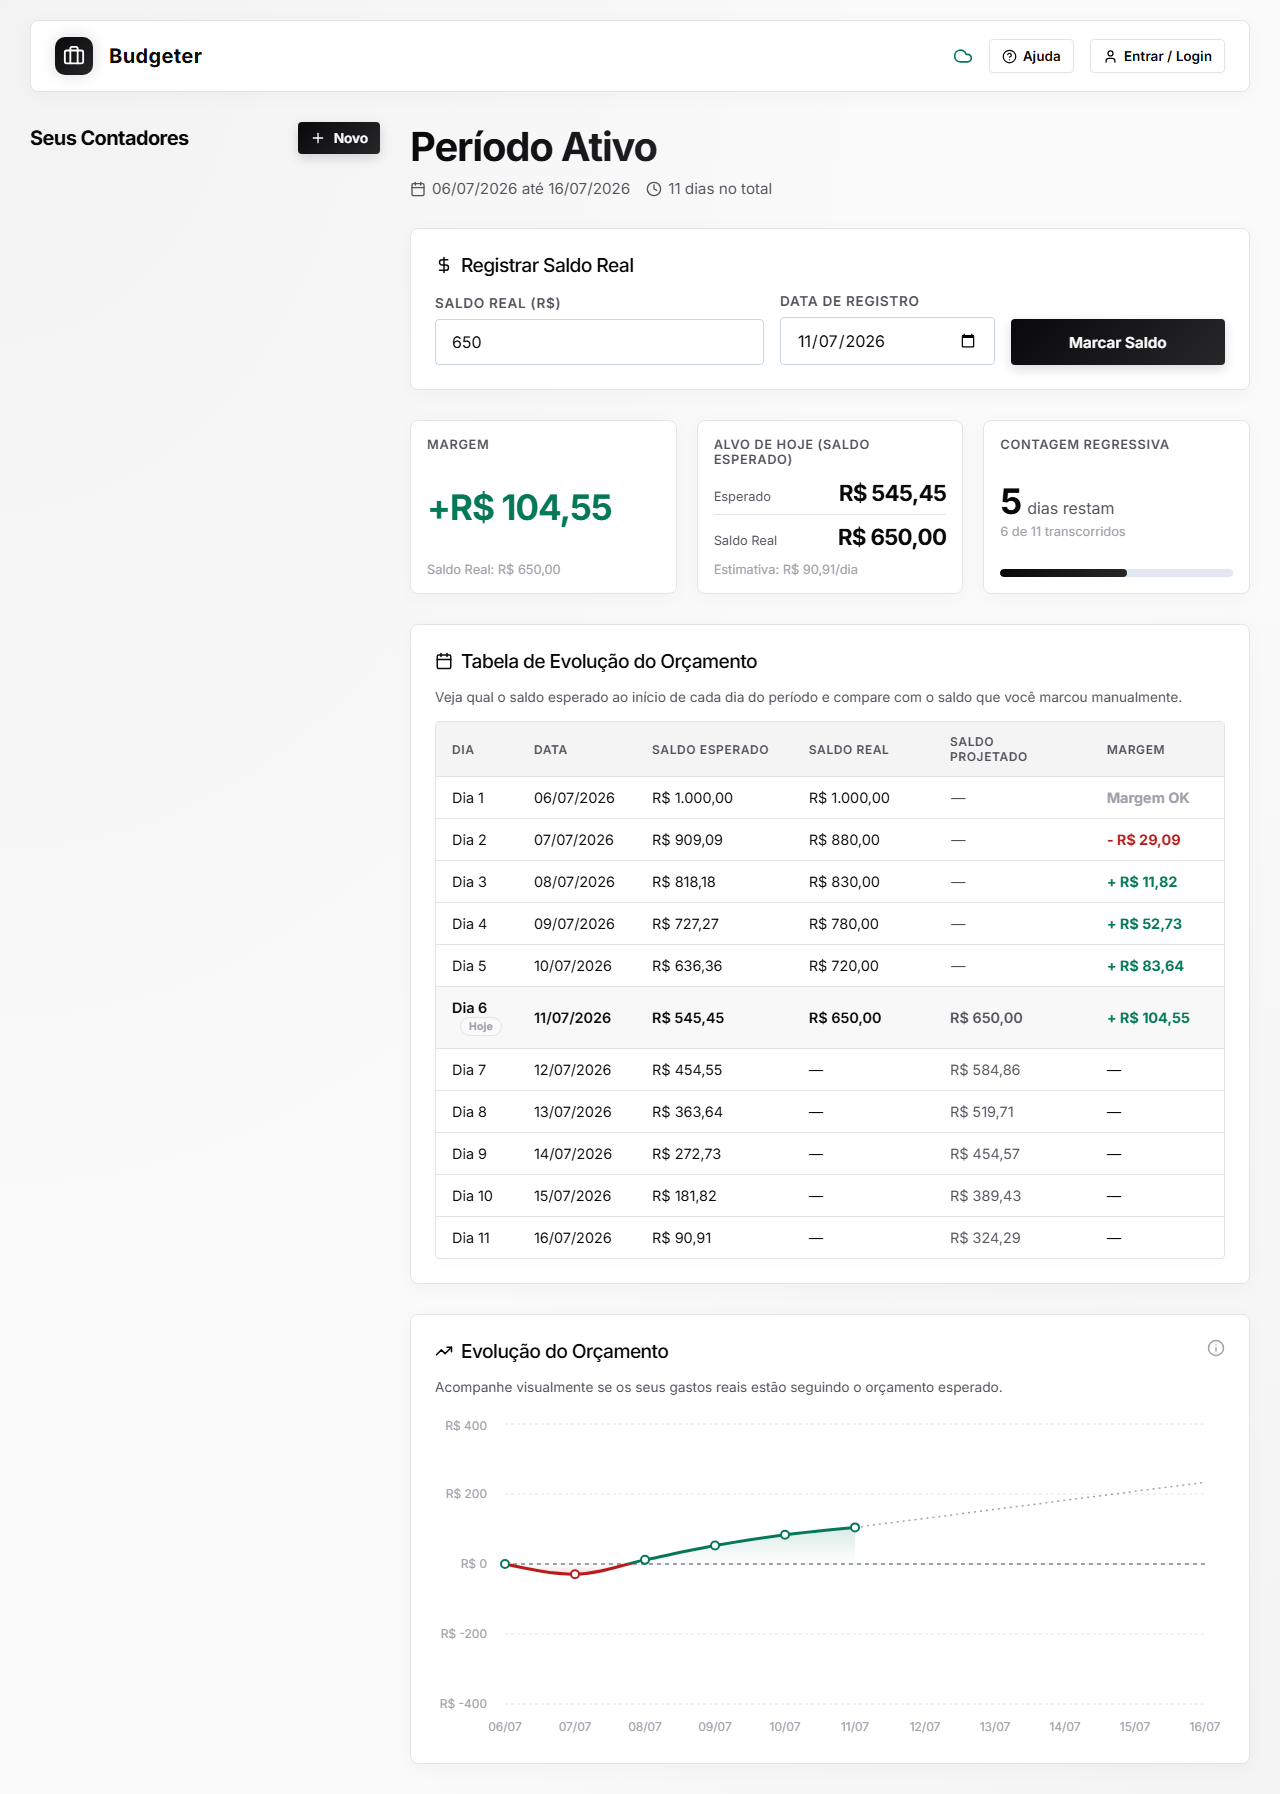
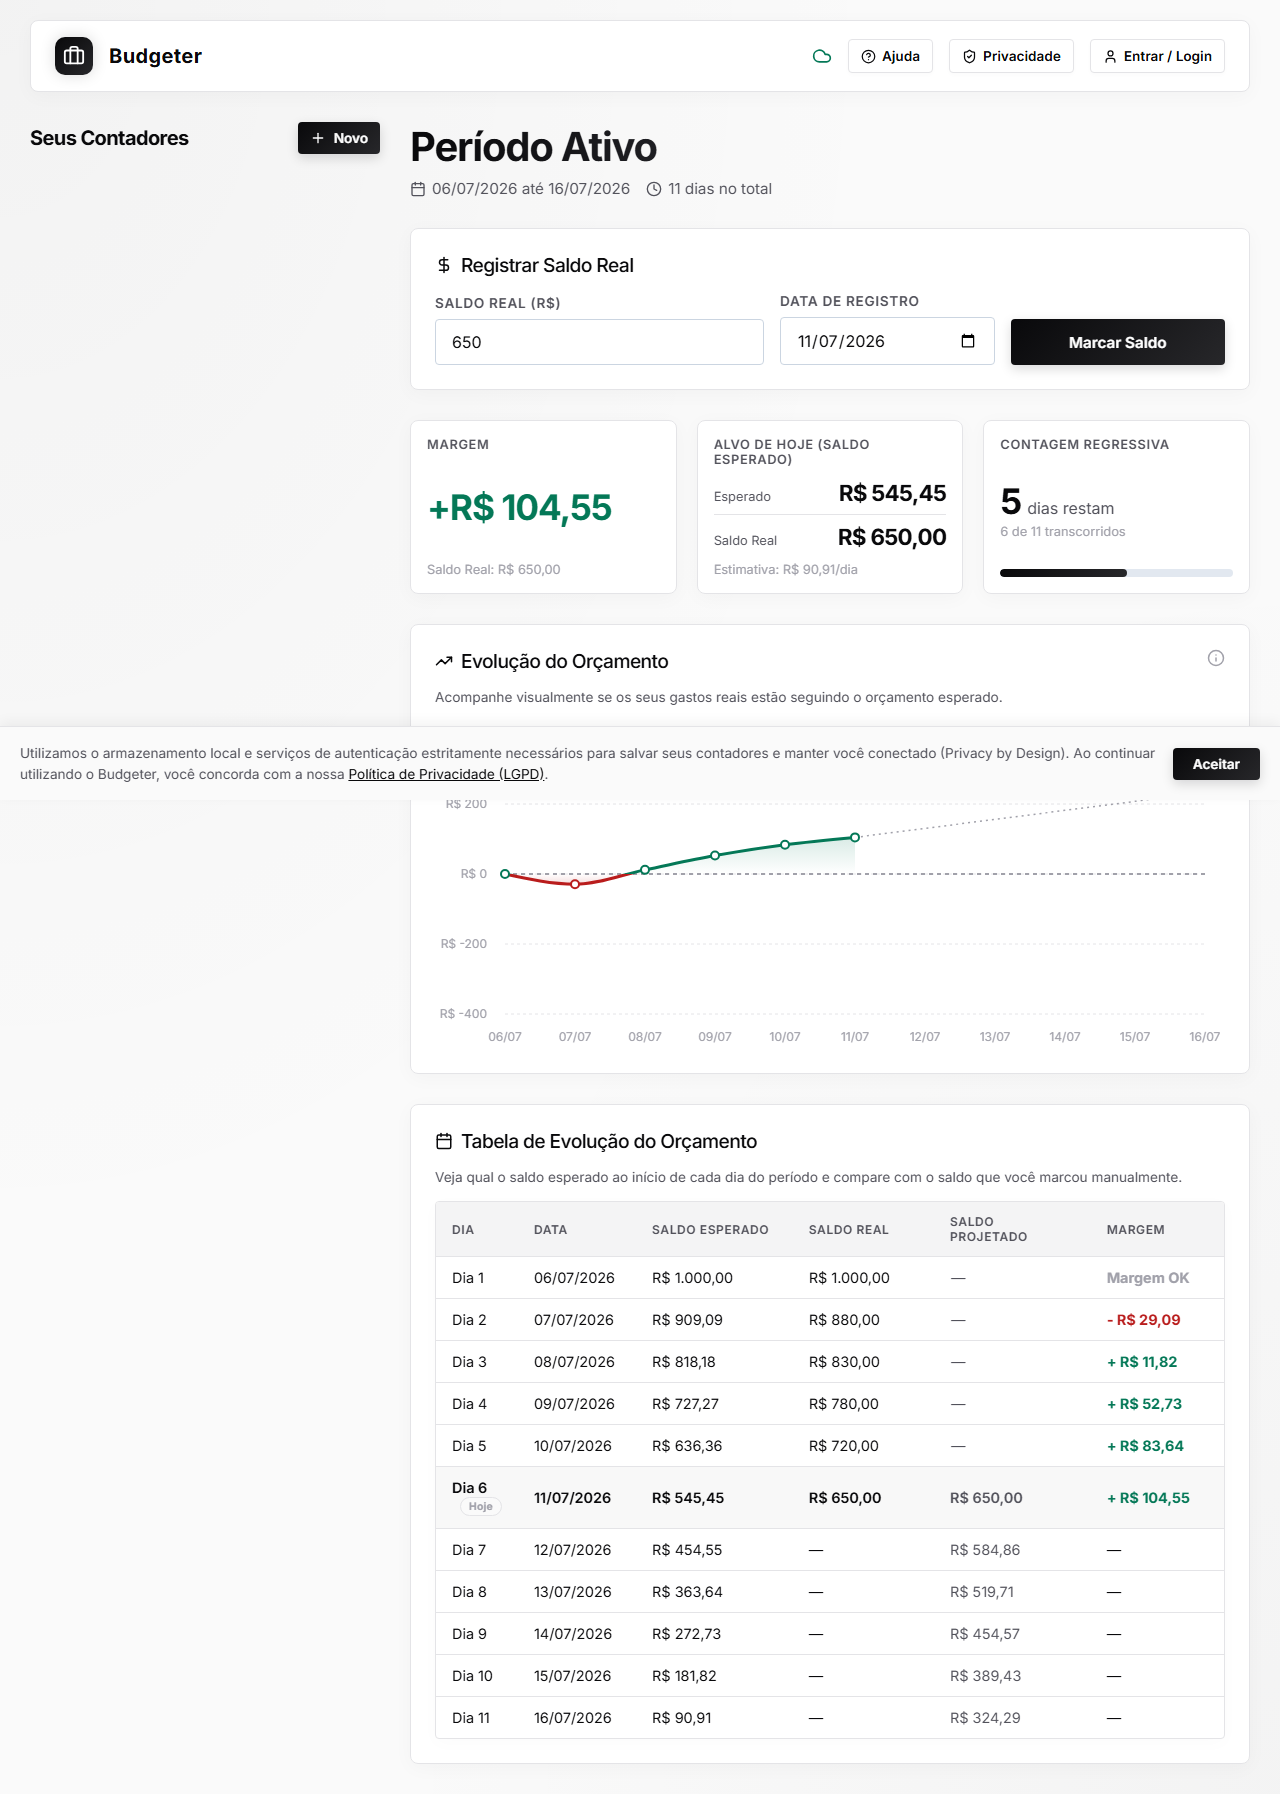
feat: move chart before table in detailed period view

diff --git a/src/components/PeriodDetail.tsx b/src/components/PeriodDetail.tsx
@@ -533,108 +533,8 @@ export const PeriodDetail: React.FC<PeriodDetailProps> = ({
 
 
 
-      {/* SECTION 5: Table of Daily Projections (New Feature) */}
-      <div className="glass animate-in delay-300" style={{ padding: '24px' }}>
-        <h3 style={{ fontSize: '1.2rem', marginBottom: '16px', display: 'flex', alignItems: 'center', gap: '8px' }}>
-          <Calendar size={18} style={{ color: 'var(--color-primary)' }} /> Tabela de Evolução do Orçamento
-        </h3>
-        <p style={{ fontSize: '0.85rem', color: 'var(--text-secondary)', marginBottom: '16px' }}>
-          Veja qual o saldo esperado ao início de cada dia do período e compare com o saldo que você marcou manualmente.
-        </p>
-        
-        <div className="table-container">
-          <table className="budget-table">
-            <thead>
-              <tr>
-                <th style={{ width: '10%' }}>Dia</th>
-                <th style={{ width: '15%' }}>Data</th>
-                <th style={{ width: '20%' }}>Saldo Esperado</th>
-                <th style={{ width: '18%' }}>Saldo Real</th>
-                <th style={{ width: '20%' }}>Saldo Projetado</th>
-                <th style={{ width: '17%' }}>Margem</th>
-              </tr>
-            </thead>
-            <tbody>
-              {(() => {
-                const totalDays = metrics.totalDays;
-                const dates = [];
-                const start = parseLocalDate(period.startDate);
-                for (let i = 0; i < totalDays; i++) {
-                  const nextDate = new Date(start.getFullYear(), start.getMonth(), start.getDate() + i);
-                  dates.push(getLocalDateString(nextDate));
-                }
-                
-                const todayStr = getLocalDateString();
-
-                return dates.map((dateStr, index) => {
-                  const expectedBalance = period.initialBudget - index * metrics.dailyBudget;
-                  const recordedBalanceForDay = period.balanceHistory?.[dateStr];
-                  const hasRecord = recordedBalanceForDay !== undefined;
-                  const isToday = todayStr === dateStr;
-                  
-                  let projectedBalance = null;
-                  if (canProject && lastRecordedBalance !== null && index >= lastRecordedDayIndex) {
-                    projectedBalance = lastRecordedBalance + m * (index - lastRecordedDayIndex);
-                  }
-
-                  let diffText = '—';
-                  let diffColor = 'inherit';
-                  let diffWeight = 'normal';
-
-                  if (hasRecord) {
-                    const diff = recordedBalanceForDay - expectedBalance;
-                    const diffAbs = Math.abs(diff);
-                    if (diff > 0.01) {
-                      diffText = `+ ${formatCurrency(diffAbs)}`;
-                      diffColor = 'var(--color-above)';
-                      diffWeight = '700';
-                    } else if (diff < -0.01) {
-                      diffText = `- ${formatCurrency(diffAbs)}`;
-                      diffColor = 'var(--color-below)';
-                      diffWeight = '700';
-                    } else {
-                      diffText = 'Margem OK';
-                      diffColor = 'var(--color-neutral)';
-                      diffWeight = '700';
-                    }
-                  }
-
-                  return (
-                    <tr key={dateStr} className={isToday ? 'today-row' : ''}>
-                      <td style={{ color: isToday ? 'var(--color-primary)' : 'inherit' }}>
-                        Dia {index + 1}
-                        {isToday && (
-                          <span className="badge badge-neutral" style={{ marginLeft: '8px', padding: '2px 8px', fontSize: '0.65rem', textTransform: 'none' }}>
-                            Hoje
-                          </span>
-                        )}
-                      </td>
-                      <td>{formatDate(dateStr)}</td>
-                      <td>{formatCurrency(expectedBalance)}</td>
-                      <td>
-                        {hasRecord
-                          ? formatCurrency(recordedBalanceForDay!) 
-                          : '—'}
-                      </td>
-                      <td style={{ color: 'var(--text-secondary)', fontStyle: projectedBalance !== null ? 'normal' : 'italic' }}>
-                        {projectedBalance !== null
-                          ? formatCurrency(projectedBalance)
-                          : '—'}
-                      </td>
-                      <td style={{ color: diffColor, fontWeight: diffWeight as any }}>
-                        {diffText}
-                      </td>
-                    </tr>
-                  );
-                });
-              })()}
-            </tbody>
-          </table>
-        </div>
-      </div>
-
       {/* SECTION 6: Chart (New Feature) */}
-      <div className="glass animate-in delay-400" style={{ padding: isMobile ? '16px 12px' : '24px' }}>
+      <div className="glass animate-in delay-300" style={{ padding: isMobile ? '16px 12px' : '24px' }}>
         <div style={{ display: 'flex', justifyContent: 'space-between', alignItems: 'flex-start' }}>
           <div>
             <h3 style={{ fontSize: '1.2rem', marginBottom: '16px', display: 'flex', alignItems: 'center', gap: '8px' }}>
@@ -790,6 +690,106 @@ export const PeriodDetail: React.FC<PeriodDetailProps> = ({
               />
             </ComposedChart>
           </ResponsiveContainer>
+        </div>
+      </div>
+
+      {/* SECTION 5: Table of Daily Projections (New Feature) */}
+      <div className="glass animate-in delay-400" style={{ padding: '24px' }}>
+        <h3 style={{ fontSize: '1.2rem', marginBottom: '16px', display: 'flex', alignItems: 'center', gap: '8px' }}>
+          <Calendar size={18} style={{ color: 'var(--color-primary)' }} /> Tabela de Evolução do Orçamento
+        </h3>
+        <p style={{ fontSize: '0.85rem', color: 'var(--text-secondary)', marginBottom: '16px' }}>
+          Veja qual o saldo esperado ao início de cada dia do período e compare com o saldo que você marcou manualmente.
+        </p>
+        
+        <div className="table-container">
+          <table className="budget-table">
+            <thead>
+              <tr>
+                <th style={{ width: '10%' }}>Dia</th>
+                <th style={{ width: '15%' }}>Data</th>
+                <th style={{ width: '20%' }}>Saldo Esperado</th>
+                <th style={{ width: '18%' }}>Saldo Real</th>
+                <th style={{ width: '20%' }}>Saldo Projetado</th>
+                <th style={{ width: '17%' }}>Margem</th>
+              </tr>
+            </thead>
+            <tbody>
+              {(() => {
+                const totalDays = metrics.totalDays;
+                const dates = [];
+                const start = parseLocalDate(period.startDate);
+                for (let i = 0; i < totalDays; i++) {
+                  const nextDate = new Date(start.getFullYear(), start.getMonth(), start.getDate() + i);
+                  dates.push(getLocalDateString(nextDate));
+                }
+                
+                const todayStr = getLocalDateString();
+
+                return dates.map((dateStr, index) => {
+                  const expectedBalance = period.initialBudget - index * metrics.dailyBudget;
+                  const recordedBalanceForDay = period.balanceHistory?.[dateStr];
+                  const hasRecord = recordedBalanceForDay !== undefined;
+                  const isToday = todayStr === dateStr;
+                  
+                  let projectedBalance = null;
+                  if (canProject && lastRecordedBalance !== null && index >= lastRecordedDayIndex) {
+                    projectedBalance = lastRecordedBalance + m * (index - lastRecordedDayIndex);
+                  }
+
+                  let diffText = '—';
+                  let diffColor = 'inherit';
+                  let diffWeight = 'normal';
+
+                  if (hasRecord) {
+                    const diff = recordedBalanceForDay - expectedBalance;
+                    const diffAbs = Math.abs(diff);
+                    if (diff > 0.01) {
+                      diffText = `+ ${formatCurrency(diffAbs)}`;
+                      diffColor = 'var(--color-above)';
+                      diffWeight = '700';
+                    } else if (diff < -0.01) {
+                      diffText = `- ${formatCurrency(diffAbs)}`;
+                      diffColor = 'var(--color-below)';
+                      diffWeight = '700';
+                    } else {
+                      diffText = 'Margem OK';
+                      diffColor = 'var(--color-neutral)';
+                      diffWeight = '700';
+                    }
+                  }
+
+                  return (
+                    <tr key={dateStr} className={isToday ? 'today-row' : ''}>
+                      <td style={{ color: isToday ? 'var(--color-primary)' : 'inherit' }}>
+                        Dia {index + 1}
+                        {isToday && (
+                          <span className="badge badge-neutral" style={{ marginLeft: '8px', padding: '2px 8px', fontSize: '0.65rem', textTransform: 'none' }}>
+                            Hoje
+                          </span>
+                        )}
+                      </td>
+                      <td>{formatDate(dateStr)}</td>
+                      <td>{formatCurrency(expectedBalance)}</td>
+                      <td>
+                        {hasRecord
+                          ? formatCurrency(recordedBalanceForDay!) 
+                          : '—'}
+                      </td>
+                      <td style={{ color: 'var(--text-secondary)', fontStyle: projectedBalance !== null ? 'normal' : 'italic' }}>
+                        {projectedBalance !== null
+                          ? formatCurrency(projectedBalance)
+                          : '—'}
+                      </td>
+                      <td style={{ color: diffColor, fontWeight: diffWeight as any }}>
+                        {diffText}
+                      </td>
+                    </tr>
+                  );
+                });
+              })()}
+            </tbody>
+          </table>
         </div>
       </div>
 